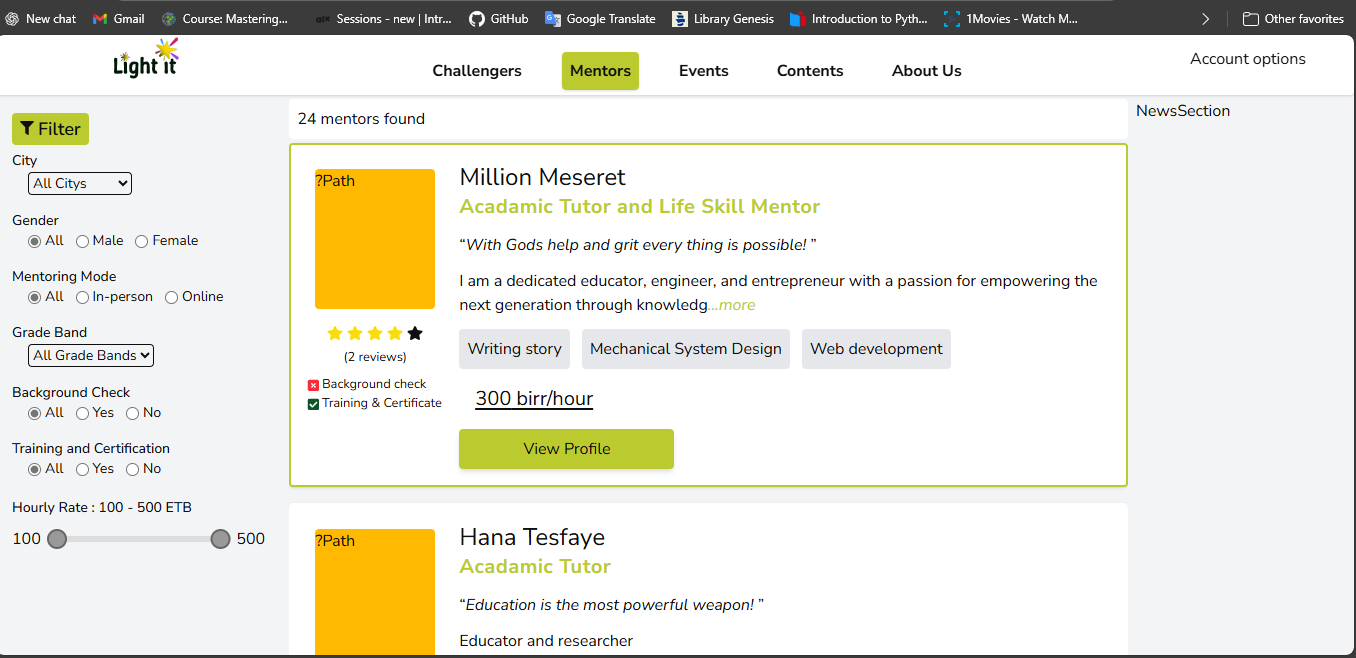
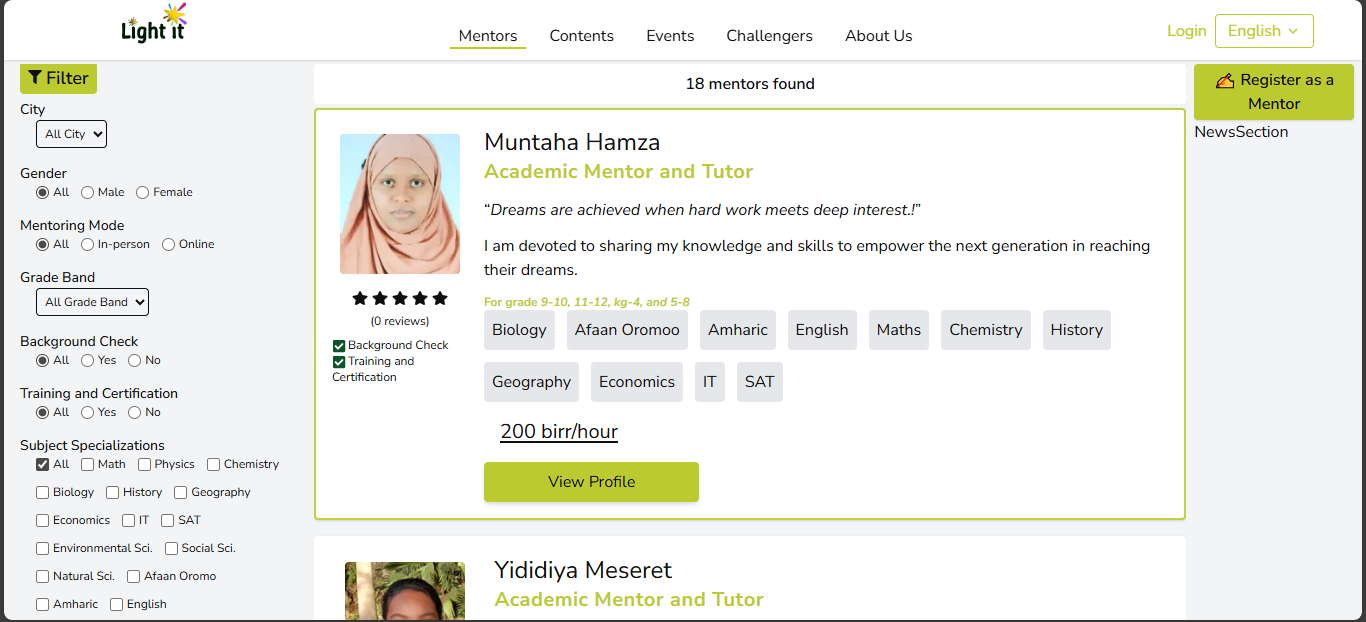
feat: enhance ProblemSection and SolutionSection content, add new images, and update links

Changed region(s): [[0.0, 0.0, 1.0, 1.0], [0.6504, 0.0916, 0.7124, 0.1222]]

diff --git a/src/components/SolutionSection.jsx b/src/components/SolutionSection.jsx
@@ -20,7 +20,7 @@ const SolutionSection = () => {
     {
       id: 1,
       title: "Light it Mentors",
-      subtitle: "Personalized Mentorship Platform",
+      subtitle: "Personal Mentors Platform",
       image: mentors,
       description:
         "A platform of well-trained, holistic mentors dedicated to help students:",
@@ -31,6 +31,7 @@ const SolutionSection = () => {
       ],
       highlight:
         "This service bridges the gap between student needs and personalized human guidance.",
+      visitLink: "https://lightit.app/mentors",
     },
     {
       id: 2,
@@ -48,25 +49,10 @@ const SolutionSection = () => {
       ],
       highlight:
         "This content is designed to make learning accessible, fun, and inspiring for every student.",
+      visitLink: "https://lightit.app/contents",
     },
     {
       id: 3,
-      title: "Light it Events",
-      subtitle: "Community-Driven Learning Experiences",
-      image: events,
-      description:
-        "We organize interactive events, both physical and digital, that bring families, students, and educators together. Examples include:",
-      features: [
-        "School-opening festivals, award ceremonies and more",
-        "Family workshops, summer programs, and hackathons",
-        "Trainings, seminars, and creative competitions",
-      ],
-      highlight:
-        "These events nurture a culture of growth, support, and joy in education.",
-    },
-
-    {
-      id: 4,
       title: "The Challenger",
       subtitle: "Student Media Platform",
       image: challengers,
@@ -79,6 +65,23 @@ const SolutionSection = () => {
       ],
       highlight:
         "Through structured challenges, students develop skills, character, and mindset. It helps them look inward, unlock their potential, and move toward a purpose-driven life.",
+      visitLink: "https://lightit.app/challengers",
+    },
+    {
+      id: 4,
+      title: "Light it Events",
+      subtitle: "Community-Driven Learning Experiences",
+      image: events,
+      description:
+        "We organize interactive events, both physical and digital, that bring families, students, and educators together. Examples include:",
+      features: [
+        "School-opening festivals, award ceremonies and more",
+        "Family workshops, summer programs, and hackathons",
+        "Trainings, seminars, and creative competitions",
+      ],
+      highlight:
+        "These events nurture a culture of growth, support, and joy in education.",
+      visitLink: "https://lightit.app/events",
     },
   ];
 
@@ -144,17 +147,25 @@ const SolutionSection = () => {
 
             <p className="text-xl text-gray-300 max-w-4xl mx-auto leading-relaxed mb-6 animate-fadeIn delay-400">
               Light it builds a{" "}
-              <span className="text-brand">comprehensive and interrelated</span>{" "}
-              ecosystem of services and products for kg-12 grade Students. We
-              create a {""} <span className="text-brand">community</span> of
-              Students , Teachers, Mentors, Families, Schools, NGOs and public
-              institutions focused on the growth and development of the next
-              generation.
+              <span className="text-brand">
+                regenerative, comprehensive, and interconnected
+              </span>{" "}
+              ecosystem of services platform for kg-12 grade Students. We bring
+              together a <span className="text-brand">community</span> of
+              students, teachers, mentors, families, schools, NGOs, government
+              bodies, and public institutions to work collaboratively toward a
+              shared goal: developing the next generation into capable
+              visionaries for their society and environment. This ecosystem
+              supports the conventional education system without replacing it,
+              in addressing current educational needs and challenges while
+              reaching millions of students across diverse schools fairly and
+              effectively, also ensuring learning remains relevant, adequate,
+              and aligned with the evolving demands of the modern world.
             </p>
 
             <div className="inline-block px-8 py-4 bg-gradient-to-r from-gray-800/80 to-gray-700/80 backdrop-blur-sm rounded-full border border-[#bbcb2f]/30 animate-fadeIn delay-500">
               <span className="text-[#bbcb2f] font-bold text-lg">
-                The Four Core Services of Light it
+                The Four Core Services platforms of Light it
               </span>
             </div>
           </div>
@@ -249,7 +260,7 @@ const SolutionSection = () => {
                     {/* Action Button */}
                     <div className="pt-2">
                       <a
-                        href="https://lightit.app/"
+                        href={service.visitLink}
                         target="_blank"
                         rel="noopener noreferrer"
                         className="px-6 py-3 bg-gradient-to-r from-[#bbcb2f] to-[#a8b829] text-black font-semibold rounded-full transition-all duration-300 hover:shadow-lg hover:shadow-[#bbcb2f]/30 hover:scale-105 inline-block text-center"

diff --git a/src/components/SoFarPage.jsx b/src/components/SoFarPage.jsx
@@ -13,6 +13,7 @@ import mentors4 from "../assets/sofar/mentors4.PNG";
 
 // Photos of Pilot Mentoring Service
 import pilotMentoringService from "../assets/sofar/pilotMentoringService.jpg";
+import pilotMentoringServiceSuccess from "../assets/sofar/pilotMentoringServiceSuccess.PNG";
 
 // Photos of School opening Festival Event
 import img1 from "../assets/sofar/1.jpg";
@@ -43,7 +44,7 @@ const ProgressSection = () => {
       id: 1,
       title: "Light it Mentors web System",
       description:
-        "We have successfully developed and launched our Mentors listing, background checking, matching and training system that connects care taker of students with trained mentors.",
+        "We have successfully developed and launched our Mentors platform that list mentors, assist background check, facilitate matching and incorporate mentors training system to connects parents of students with trained mentors.",
       images: [mentors1, mentors2, mentors3, mentors4],
       icon: "🌱",
       stats: "List, Background check, Train and Match",
@@ -52,8 +53,8 @@ const ProgressSection = () => {
       id: 2,
       title: "Pilot Mentoring Service Launch",
       description:
-        "Our pilot mentors service has been successfully implemented, providing trained mentors for personalized guidance to students. This service marks a significant step in our mission.",
-      images: [pilotMentoringService],
+        "Our pilot mentors service has been successfully implemented, providing trained mentors for personalized guidance to students. This service succeeded by helping of our mentee score 523/600 in university entrance national examination marks a significant step in our mission.",
+      images: [pilotMentoringService, pilotMentoringServiceSuccess],
       icon: "🚀",
       stats: "Successfully tested",
     },

diff --git a/src/components/ProblemSection.jsx b/src/components/ProblemSection.jsx
@@ -170,7 +170,8 @@ const ProblemSection = () => {
             <div className="w-24 h-1 bg-gradient-to-r from-[#bbcb2f] to-[#a8b829] mx-auto mb-3 rounded-full animate-scaleIn delay-300" />
 
             <p className="text-xl text-gray-300 max-w-3xl mx-auto leading-relaxed animate-fadeIn delay-400">
-              Understanding the challenges for meaningful solutions.
+              Understanding the challenges for meaningful, sustainable,
+              innovative and dynamic solutions.
             </p>
           </div>
 
